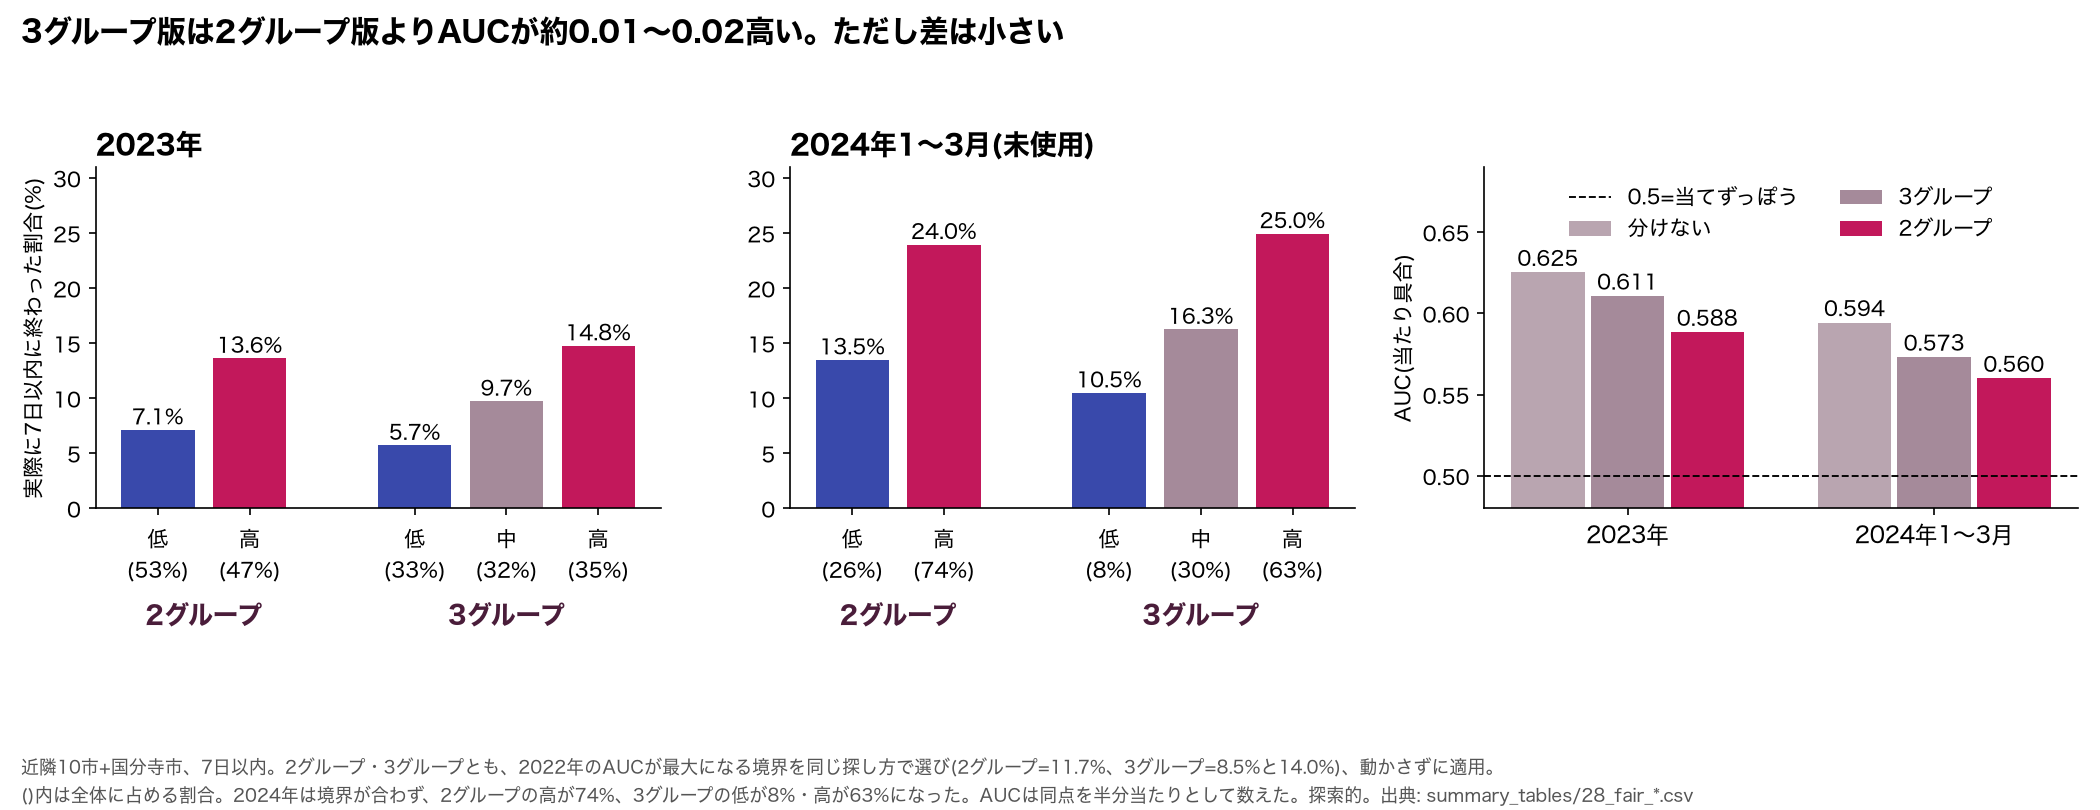
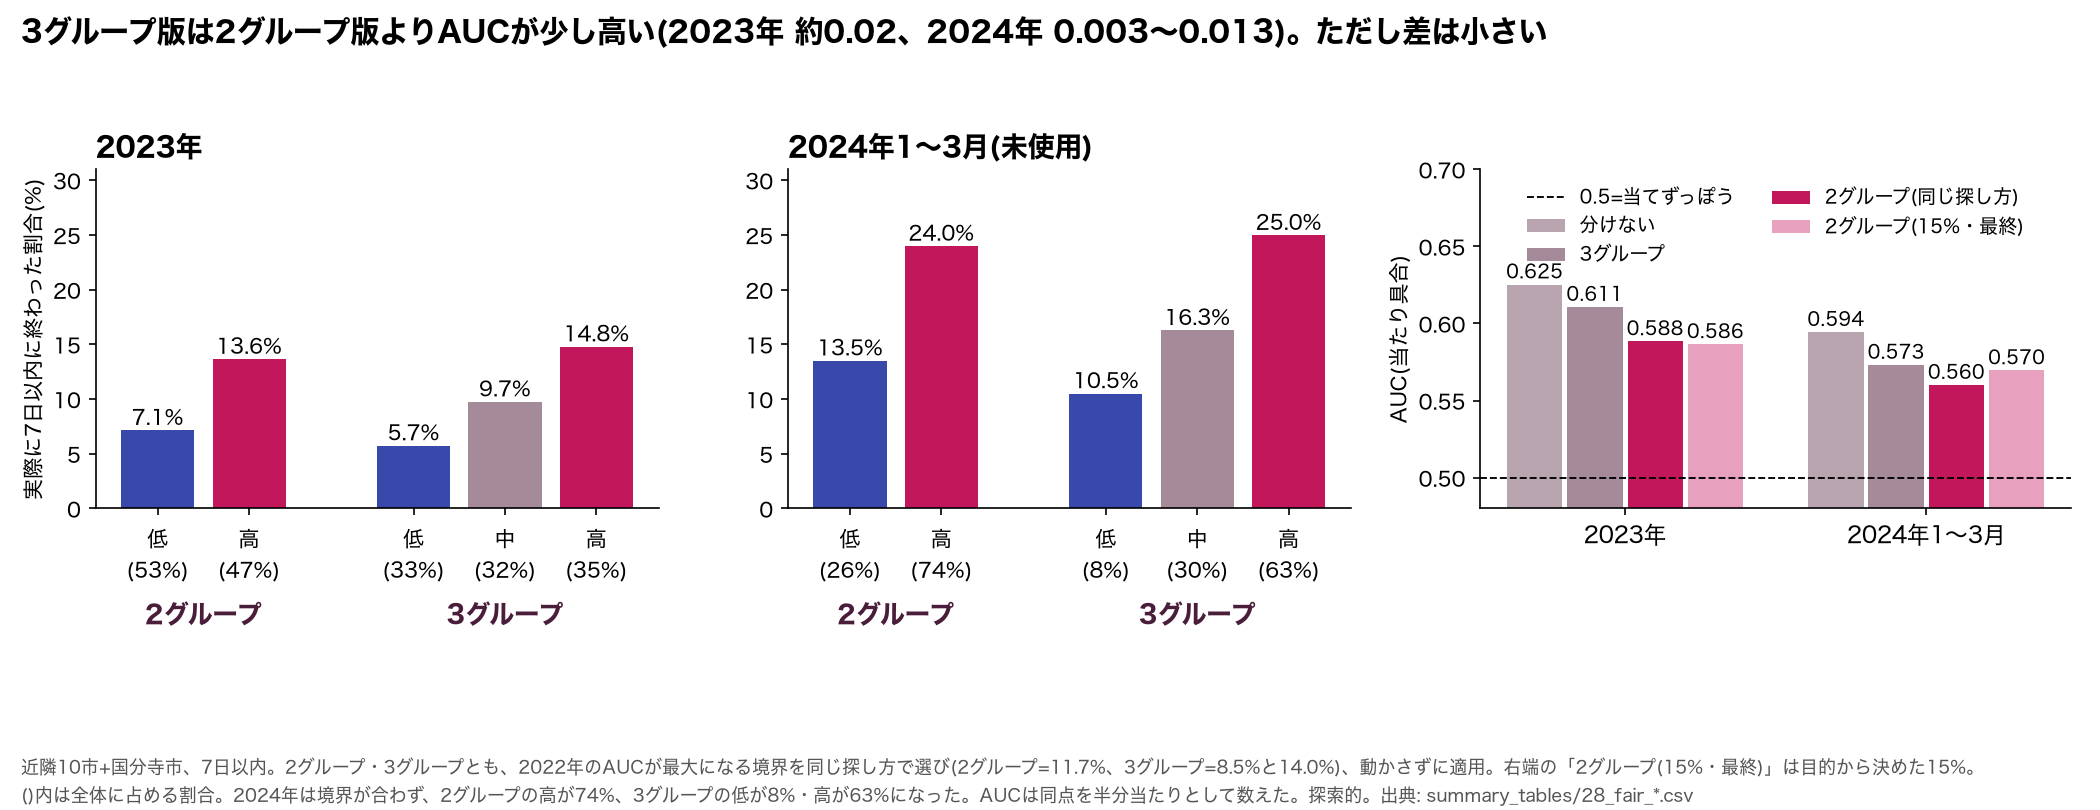
Add presentation figures (29a-f) with large plain-language labels; add 15% two-group bar to figure 28

diff --git a/Ohori/analysis/29_deck_figures.py b/Ohori/analysis/29_deck_figures.py
@@ -1,0 +1,320 @@
+"""発表スライド用の図を、大きな文字・専門用語なしで作り直す。
+入力は git管理されている summary_tables/ の表だけ(再学習しない)。出力は figures/29*.png。
+スライドの幅に1対1で貼る前提(dpi=150)なので、文字は小さくしすぎない。
+  29a 掲載日数(帯ごとの割合 + 終わった割合の推移)
+  29b 予測期間(7日・14日・30日)
+  29c 3グループと2グループ(旧。1枚版)
+  29c1 3グループと2グループ: 実際に終わった割合
+  29c2 3グループと2グループ: 当たり具合(AUC)
+  29d 結果(2023年)
+  29e 偶然か、簡単な目安か
+  29f 2024年1〜3月での確認
+"""
+from pathlib import Path
+
+import matplotlib.pyplot as plt
+import numpy as np
+import pandas as pd
+
+HERE = Path(__file__).resolve().parents[1]
+T, FIG = HERE / "summary_tables", HERE / "figures"
+INK, ACC, BLUE, MID, GRAY, PINK, LACC = "#4A1D3A", "#C2185B", "#3949AB", "#A58A9A", "#B9A5B0", "#FF9EC4", "#E8A0BF"
+plt.rcParams["font.family"] = ["Hiragino Sans", "sans-serif"]
+plt.rcParams["axes.spines.top"] = False
+plt.rcParams["axes.spines.right"] = False
+plt.rcParams["axes.edgecolor"] = "#555555"
+DPI = 150
+
+
+def rd(n: str) -> pd.DataFrame:
+    return pd.read_csv(T / n)
+
+
+def new(w_px: int, h_px: int, ncols: int = 1, ratios=None):
+    fig, ax = plt.subplots(1, ncols, figsize=(w_px / DPI, h_px / DPI), gridspec_kw={"width_ratios": ratios} if ratios else None)
+    return fig, ax
+
+
+def save(fig, name: str) -> None:
+    fig.savefig(FIG / name, dpi=DPI)
+    plt.close(fig)
+
+
+def a_duration() -> None:
+    s = rd("21_duration_summary.csv").set_index("指標")["値"]
+    bands = [("0〜6", "0〜6日"), ("7〜13", "7〜13日"), ("14〜29", "14〜29日"), ("30〜59", "30〜59日"), ("60〜89", "60〜89日"), ("90〜179", "90〜179日"), ("180〜", "180日以上")]
+    vals = [100 * float(s[f"掲載件数の割合 {k}"]) for _, k in bands]
+    fig, ax = new(1664, 520, 2, [1, 1])
+    a = ax[0]
+    for i, v in enumerate(vals):
+        a.bar(i, v, 0.72, color=ACC if i == 0 else INK)
+        a.text(i, v + 0.8, f"{v:.0f}%", ha="center", fontsize=14, fontweight="bold")
+    a.set_xticks(range(len(bands)))
+    a.set_xticklabels([b for b, _ in bands], fontsize=10.5)
+    a.set_xlabel("掲載日数(日)", fontsize=13)
+    a.set_ylim(0, 36)
+    a.tick_params(axis="y", labelsize=12)
+    a.set_ylabel("物件の割合(%)", fontsize=13)
+    a.set_title("掲載日数ごとの物件の割合", loc="left", fontsize=15, fontweight="bold")
+    b = ax[1]
+    pts = {0: 0.0}
+    for k, v in s.items():
+        if "日後までに終了" in k:
+            pts[int(k.split("日後")[0])] = float(v)
+    days = sorted(pts)
+    y = [100 * pts[d] for d in days]
+    b.fill_between(days, y, color=INK, alpha=0.08)
+    b.plot(days, y, color=INK, lw=3)
+    for d, dx, dy, lab in [(7, 6, -9, "7日目 約3割"), (30, 6, -12, "30日目 約6割"), (90, 6, -10, "90日目 約85%")]:
+        b.plot(d, 100 * pts[d], "o", color=ACC, ms=11)
+        b.annotate(lab, (d, 100 * pts[d]), xytext=(d + dx, 100 * pts[d] + dy), fontsize=14, fontweight="bold", color=ACC)
+    b.axhline(50, color=GRAY, ls="--", lw=1)
+    b.text(178, 52, "半分は22日までに終了", ha="right", color="#444444", fontsize=12)
+    b.set_xlim(0, 182)
+    b.set_xticks([0, 30, 60, 90, 120, 150, 180])
+    b.set_ylim(0, 100)
+    b.set_xlabel("掲載を始めてから何日目か", fontsize=13)
+    b.set_ylabel("終わった物件の割合(%)", fontsize=13)
+    b.tick_params(labelsize=12)
+    b.set_title("日がたつほど、終わった割合は増える", loc="left", fontsize=15, fontweight="bold")
+    b.grid(color="#e5e5e5")
+    fig.tight_layout()
+    save(fig, "29a_duration.png")
+
+
+def b_horizon() -> None:
+    h = rd("22_horizon_choice.csv")
+    h = h[h["評価対象"] == "近隣10市+国分寺市"].set_index("予測期間(日)")
+    days = [7, 14, 30]
+    labs = ["7日", "14日", "30日"]
+    cols = [ACC, INK, INK]
+    fig, ax = new(1100, 474, 2)
+    a = ax[0]
+    v = [h.loc[d, "似た候補のAUC"] for d in days]
+    for i, x in enumerate(v):
+        a.bar(i, x, 0.6, color=cols[i])
+        a.text(i, x + 0.003, f"{x:.3f}", ha="center", fontsize=13, fontweight="bold")
+    a.axhline(0.5, color="black", ls="--", lw=1)
+    a.set_ylabel("点線=当てずっぽう(0.5)", fontsize=10)
+    a.set_ylim(0.48, 0.60)
+    a.set_xticks(range(3))
+    a.set_xticklabels(labs, fontsize=13)
+    a.tick_params(axis="y", labelsize=11)
+    a.set_title("当たり具合(AUC): ほぼ同じ", loc="left", fontsize=13, fontweight="bold")
+    b = ax[1]
+    v = [h.loc[d, "高は低の何倍"] for d in days]
+    for i, x in enumerate(v):
+        b.bar(i, x, 0.6, color=cols[i])
+        b.text(i, x + 0.04, f"{x:.2f}倍", ha="center", fontsize=13, fontweight="bold")
+    b.set_ylim(1.0, 2.25)
+    b.set_xticks(range(3))
+    b.set_xticklabels(labs, fontsize=13)
+    b.tick_params(axis="y", labelsize=11)
+    b.set_title("高は低の何倍終わりやすいか", loc="left", fontsize=13, fontweight="bold")
+    fig.tight_layout()
+    save(fig, "29b_horizon.png")
+
+
+def c_levels() -> None:
+    g = rd("28_fair_group_rates.csv")
+    m, m27 = rd("28_fair_auc.csv"), rd("27_three_levels_auc.csv")
+    Y23, Y24 = "2023(固定して適用)", "2024年1〜3月(未使用)"
+    S2, S3 = "V2 2グループ(AUC最大)", "V2 3グループ(AUC最大)"
+    COL = {"低": BLUE, "中": MID, "高": ACC}
+    fig, ax = new(1130, 470, 2, [0.8, 1.2])
+    a = ax[0]
+    x0, ticks, labs = 0, [], []
+    for sch, nm in [(S2, "2グループ"), (S3, "3グループ")]:
+        d = g[(g["対象"] == Y23) & (g["分け方"] == sch)]
+        xs = x0 + np.arange(len(d))
+        for xx, (_, r) in zip(xs, d.iterrows()):
+            a.bar(xx, 100 * r["実際の終了率"], 0.78, color=COL[r["グループ"]])
+            a.text(xx, 100 * r["実際の終了率"] + 0.5, f"{100 * r['実際の終了率']:.0f}%", ha="center", fontsize=13, fontweight="bold")
+            ticks.append(xx)
+            labs.append(r["グループ"])
+        a.text(xs.mean(), -4.6, nm, ha="center", fontsize=13, fontweight="bold", color=INK, clip_on=False)
+        x0 = xs[-1] + 1.6
+    a.set_xticks(ticks)
+    a.set_xticklabels(labs, fontsize=13)
+    a.set_ylim(0, 19)
+    a.tick_params(axis="y", labelsize=11)
+    a.set_title("2023年: 終わった割合(%)", loc="left", fontsize=12, fontweight="bold")
+    b = ax[1]
+    rows = [("確率そのまま", GRAY, "分けない", m), (S3, MID, "3グループ", m), (S2, ACC, "2グループ", m), ("2段階(15%)", LACC, "2グループ(15%・最終)", m27)]
+    w = 0.21
+    for i, y in enumerate([Y23, Y24]):
+        for j, (k, c, nm, tab) in enumerate(rows):
+            v = tab[(tab["対象"] == y) & (tab["分け方"] == k)]["全体のAUC"].iloc[0]
+            b.bar(i + (j - 1.5) * w, v, w * 0.94, color=c, label=nm if i == 0 else None)
+            b.text(i + (j - 1.5) * w, v + 0.004, f"{v:.2f}", ha="center", fontsize=9, fontweight="bold")
+    b.axhline(0.5, color="black", ls="--", lw=1)
+    b.set_ylim(0.5, 0.70)
+    b.set_xticks([0, 1])
+    b.set_xticklabels(["2023年", "2024年1〜3月"], fontsize=12)
+    b.tick_params(axis="y", labelsize=11)
+    b.legend(frameon=False, loc="upper right", fontsize=9.5, ncol=2, columnspacing=0.8, handlelength=1.2)
+    b.set_title("当たり具合(AUC)", loc="left", fontsize=12, fontweight="bold")
+    fig.tight_layout(w_pad=3.0)
+    save(fig, "29c_levels.png")
+
+
+def d_result() -> None:
+    l = rd("19_labels_by_year.csv")
+    l = l[(l["予測期間(日)"] == 7) & l["境界の決め方"].str.startswith("a") & l["年"].str.startswith("2023")].iloc[0]
+    w = rd("19_within_set_2023.csv")
+    w = w[(w["予測期間(日)"] == 7) & w["境界の決め方"].str.startswith("a")].set_index("候補の似かた")
+    fig, ax = new(1180, 508, 2, [1, 1.25])
+    a = ax[0]
+    items = [("低", 100 * l["低の実終了率"], BLUE), ("全体", 100 * l["全体"], GRAY), ("高", 100 * l["高の実終了率"], ACC)]
+    for i, (n, v, c) in enumerate(items):
+        a.bar(i, v, 0.62, color=c)
+        a.text(i, v + 0.4, f"{v:.1f}%", ha="center", fontsize=16, fontweight="bold")
+    a.text(1.0, 21.2, "高は低の約2倍", ha="center", fontsize=17, fontweight="bold", color=ACC)
+    a.set_xticks(range(3))
+    a.set_xticklabels([n for n, _, _ in items], fontsize=15)
+    a.set_ylim(0, 24)
+    a.tick_params(axis="y", labelsize=12)
+    a.set_title("7日以内に終わった割合(%)", loc="left", fontsize=14, fontweight="bold")
+    b = ax[1]
+    rows = [("間取り・築年数・家賃\nまで同じ物件", w.loc["A 間取り×築年数×家賃"]), ("間取りだけ\n同じ物件", w.loc["D 間取りだけ同じ"])]
+    for i, (n, r) in enumerate(rows):
+        v = r["高−低の実終了率の差pt"]
+        b.barh(i, v, 0.5, color=INK)
+        b.plot([r["ci_low"], r["ci_high"]], [i, i], color=PINK, lw=3.5, zorder=3)
+        b.text(r["ci_high"] + 0.35, i, f"+{v:.1f}", va="center", fontsize=17, fontweight="bold")
+    b.set_yticks(range(2))
+    b.set_yticklabels([n for n, _ in rows], fontsize=12)
+    b.set_xlim(0, 10.5)
+    b.tick_params(axis="x", labelsize=12)
+    b.set_xlabel("高と低の差(ポイント)\nピンクの線は誤差の範囲", fontsize=11)
+    b.set_title("似た物件どうしの差は小さい", loc="left", fontsize=14, fontweight="bold")
+    fig.tight_layout()
+    save(fig, "29d_result2023.png")
+
+
+def e_baselines() -> None:
+    t = rd("25_overall_ci_baselines.csv")
+    names = {"モデル(今回)": "今回の方法", "掲載日数だけ": "掲載日数だけ", "家賃帯だけ": "家賃だけ", "間取りだけ": "間取りだけ", "築年数帯だけ": "築年数だけ",
+             "間取り×築年数×家賃": "3つの条件を組み合わせた集計", "でたらめ(並べ替え)": "でたらめに分けた場合"}
+    t = t.iloc[::-1].reset_index(drop=True)
+    fig, ax = new(1060, 501, 1)
+    for i, r in t.iterrows():
+        k = r["目安"]
+        c = ACC if k.startswith("モデル") else (GRAY if k.startswith("でたらめ") else INK)
+        ax.barh(i, r["差pt"], 0.62, color=c)
+        ax.plot([r["差pt_ci_low"], r["差pt_ci_high"]], [i, i], color=PINK, lw=3.5, zorder=3)
+        ax.text(max(r["差pt_ci_high"], r["差pt"]) + 0.25, i, f"{r['差pt']:+.1f}", va="center", fontsize=14, fontweight="bold" if k.startswith("モデル") else "normal")
+    ax.set_yticks(range(len(t)))
+    ax.set_yticklabels([names[k] for k in t["目安"]], fontsize=13)
+    ax.axvline(0, color="black", lw=0.8)
+    ax.set_xlim(-1.5, 10)
+    ax.tick_params(axis="x", labelsize=12)
+    ax.set_xlabel("高と低の差(ポイント。ピンクの線は誤差の範囲)", fontsize=12)
+    fig.tight_layout()
+    save(fig, "29e_baselines.png")
+
+
+def f_holdout() -> None:
+    l = rd("19_labels_by_year.csv")
+    l = l[(l["予測期間(日)"] == 7) & l["境界の決め方"].str.startswith("a") & l["年"].str.startswith("2023")].iloc[0]
+    h = rd("26_holdout_2024q1.csv")
+    h = h[(h["対象"] == "近隣10市+国分寺市") & h["目安"].str.startswith("モデル")].iloc[0]
+    w23 = rd("19_within_set_2023.csv")
+    w23 = w23[(w23["予測期間(日)"] == 7) & w23["境界の決め方"].str.startswith("a")].set_index("候補の似かた")
+    w24 = rd("26_holdout_2024q1_within_set.csv").set_index("候補の似かた")
+    b25 = rd("25_overall_ci_baselines.csv")
+    b25 = b25[b25["目安"].str.startswith("モデル")].iloc[0]
+    fig, ax = new(1060, 459, 2, [1, 1.3])
+    a = ax[0]
+    for i, (lo, hi, nm) in enumerate([(100 * l["低の実終了率"], 100 * l["高の実終了率"], "2023年"), (100 * h["低の実終了率"], 100 * h["高の実終了率"], "2024年1〜3月")]):
+        a.bar(i - 0.19, lo, 0.34, color=BLUE, label="低" if i == 0 else None)
+        a.bar(i + 0.19, hi, 0.34, color=ACC, label="高" if i == 0 else None)
+        a.text(i - 0.19, lo + 0.5, f"{lo:.0f}%", ha="center", fontsize=13, fontweight="bold")
+        a.text(i + 0.19, hi + 0.5, f"{hi:.0f}%", ha="center", fontsize=13, fontweight="bold")
+        a.text(i, max(hi, lo) + 6.2, f"{hi / lo:.2f}倍", ha="center", fontsize=15, fontweight="bold", color=INK)
+    a.set_xticks([0, 1])
+    a.set_xticklabels(["2023年", "2024年1〜3月\n(一度も使っていない)"], fontsize=12)
+    a.set_ylim(0, 46)
+    a.tick_params(axis="y", labelsize=11)
+    a.legend(frameon=False, loc="upper left", ncol=1, fontsize=12)
+    a.set_title("7日以内に終わった割合(%)", loc="left", fontsize=13, fontweight="bold")
+    b = ax[1]
+    rows = [("全体", (b25["差pt"], b25["差pt_ci_low"], b25["差pt_ci_high"]), (h["差pt"], h["差pt_ci_low"], h["差pt_ci_high"])),
+            ("間取りだけ同じ", tuple(w23.loc["D 間取りだけ同じ", ["高−低の実終了率の差pt", "ci_low", "ci_high"]]), tuple(w24.loc["D 間取りだけ同じ", ["高−低の実終了率の差pt", "ci_low", "ci_high"]])),
+            ("いちばん似た物件", tuple(w23.loc["A 間取り×築年数×家賃", ["高−低の実終了率の差pt", "ci_low", "ci_high"]]), tuple(w24.loc["A 間取り×築年数×家賃", ["高−低の実終了率の差pt", "ci_low", "ci_high"]]))]
+    for i, (nm, v23, v24) in enumerate(rows[::-1]):
+        for j, (v, c, yr) in enumerate([(v23, GRAY, "2023年"), (v24, ACC, "2024年1〜3月")]):
+            y = i + (0.19 if j == 0 else -0.19)
+            b.barh(y, v[0], 0.32, color=c, label=yr if i == 0 else None)
+            b.plot([v[1], v[2]], [y, y], color=PINK if j else INK, lw=3, zorder=3)
+            b.text(max(v[2], v[0]) + 0.3, y, f"{v[0]:+.1f}", va="center", fontsize=12, fontweight="bold" if j else "normal")
+    b.axvline(0, color="black", lw=0.8)
+    b.set_yticks(range(3))
+    b.set_yticklabels([r[0] for r in rows[::-1]], fontsize=12)
+    b.set_xlim(-5, 15)
+    b.tick_params(axis="x", labelsize=11)
+    b.set_xlabel("高と低の差(ポイント)", fontsize=11)
+    b.text(0.0, 1.0, "灰=2023年　赤=2024年1〜3月", transform=b.transAxes, fontsize=11, color="#444444", va="bottom")
+    b.set_title("最も似た物件は差が0(2024年)", loc="left", fontsize=12, fontweight="bold", pad=20)
+    b.set_ylim(-0.75, 2.7)
+    fig.tight_layout(w_pad=2.5)
+    save(fig, "29f_holdout.png")
+
+
+def c1_levels_rates() -> None:
+    """3グループと2グループで、実際に終わった割合(2023年と2024年1〜3月)。"""
+    g = rd("28_fair_group_rates.csv")
+    Y = [("2023(固定して適用)", "2023年"), ("2024年1〜3月(未使用)", "2024年1〜3月(一度も使っていない)")]
+    S2, S3 = "V2 2グループ(AUC最大)", "V2 3グループ(AUC最大)"
+    COL = {"低": BLUE, "中": MID, "高": ACC}
+    fig, ax = new(1130, 470, 2, [1, 1])
+    for a, (yk, yt) in zip(ax, Y):
+        x0, ticks, labs = 0, [], []
+        for sch, nm in [(S2, "2グループ"), (S3, "3グループ")]:
+            d = g[(g["対象"] == yk) & (g["分け方"] == sch)]
+            xs = x0 + np.arange(len(d))
+            for xx, (_, r) in zip(xs, d.iterrows()):
+                a.bar(xx, 100 * r["実際の終了率"], 0.78, color=COL[r["グループ"]])
+                a.text(xx, 100 * r["実際の終了率"] + 0.6, f"{100 * r['実際の終了率']:.0f}%", ha="center", fontsize=15, fontweight="bold")
+                ticks.append(xx)
+                labs.append(r["グループ"])
+            a.text(xs.mean(), -8.2, nm, ha="center", fontsize=14, fontweight="bold", color=INK, clip_on=False)
+            x0 = xs[-1] + 1.6
+        a.set_xticks(ticks)
+        a.set_xticklabels(labs, fontsize=14)
+        a.set_ylim(0, 30)
+        a.tick_params(axis="y", labelsize=12)
+        a.set_title(yt, loc="left", fontsize=13, fontweight="bold")
+    ax[0].set_ylabel("7日以内に終わった割合(%)", fontsize=13)
+    fig.tight_layout(w_pad=3.0)
+    save(fig, "29c1_levels_rates.png")
+
+
+def c2_levels_auc() -> None:
+    """当たり具合(AUC)の比較。"""
+    m, m27 = rd("28_fair_auc.csv"), rd("27_three_levels_auc.csv")
+    Y23, Y24 = "2023(固定して適用)", "2024年1〜3月(未使用)"
+    S2, S3 = "V2 2グループ(AUC最大)", "V2 3グループ(AUC最大)"
+    fig, b = plt.subplots(1, 1, figsize=(820 / DPI, 470 / DPI))
+    rows = [("確率そのまま", GRAY, "分けない", m), (S3, MID, "3グループ", m), (S2, ACC, "2グループ(同じ探し方)", m), ("2段階(15%)", LACC, "2グループ(15%・最終)", m27)]
+    w = 0.2
+    for i, y in enumerate([Y23, Y24]):
+        for j, (k, c, nm, tab) in enumerate(rows):
+            v = tab[(tab["対象"] == y) & (tab["分け方"] == k)]["全体のAUC"].iloc[0]
+            b.bar(i + (j - 1.5) * w, v, w * 0.92, color=c, label=nm if i == 0 else None)
+            b.text(i + (j - 1.5) * w, v + 0.004, f"{v:.2f}", ha="center", fontsize=12, fontweight="bold")
+    b.axhline(0.5, color="black", ls="--", lw=1)
+    b.set_ylim(0.5, 0.72)
+    b.set_xticks([0, 1])
+    b.set_xticklabels(["2023年", "2024年1〜3月"], fontsize=14)
+    b.tick_params(axis="y", labelsize=12)
+    b.set_ylabel("当たり具合(AUC)", fontsize=13)
+    b.legend(frameon=False, loc="upper right", fontsize=11, ncol=2, columnspacing=0.8, handlelength=1.2)
+    fig.tight_layout()
+    save(fig, "29c2_levels_auc.png")
+
+
+if __name__ == "__main__":
+    for f in (a_duration, b_horizon, c_levels, c1_levels_rates, c2_levels_auc, d_result, e_baselines, f_holdout):
+        f()
+    print("ok")

diff --git a/Ohori/analysis/28b_fair_figure.py b/Ohori/analysis/28b_fair_figure.py
@@ -13,6 +13,7 @@ plt.rcParams["axes.spines.top"] = False
 plt.rcParams["axes.spines.right"] = False
 
 g = pd.read_csv(ST / "28_fair_group_rates.csv")
+m27 = pd.read_csv(ST / "27_three_levels_auc.csv")
 m = pd.read_csv(ST / "28_fair_auc.csv")
 YEARS = ["2023(固定して適用)", "2024年1〜3月(未使用)"]
 TITLE = {YEARS[0]: "2023年", YEARS[1]: "2024年1〜3月(未使用)"}
@@ -38,20 +39,20 @@ for a, y in zip(ax[:2], YEARS):
     a.set_title(TITLE[y], loc="left", fontsize=13, fontweight="bold")
     a.set_ylabel("実際に7日以内に終わった割合(%)" if y == YEARS[0] else "")
 b = ax[2]
-rows = [("確率そのまま", GRAY, "分けない"), (S3, MID, "3グループ"), (S2, ACC, "2グループ")]
-w = 0.26
+rows = [("確率そのまま", GRAY, "分けない", m), (S3, MID, "3グループ", m), (S2, ACC, "2グループ(同じ探し方)", m), ("2段階(15%)", "#E8A0BF", "2グループ(15%・最終)", m27)]
+w = 0.2
 for i, y in enumerate(YEARS):
-    for j, (k, c, nm) in enumerate(rows):
-        v = m[(m["対象"] == y) & (m["分け方"] == k)]["全体のAUC"].iloc[0]
-        b.bar(i + (j - 1) * w, v, w * 0.92, color=c, label=nm if i == 0 else None)
-        b.text(i + (j - 1) * w, v + 0.004, f"{v:.3f}", ha="center", fontsize=10)
+    for j, (k, c, nm, tab) in enumerate(rows):
+        v = tab[(tab["対象"] == y) & (tab["分け方"] == k)]["全体のAUC"].iloc[0]
+        b.bar(i + (j - 1.5) * w, v, w * 0.92, color=c, label=nm if i == 0 else None)
+        b.text(i + (j - 1.5) * w, v + 0.004, f"{v:.3f}", ha="center", fontsize=9)
 b.axhline(0.5, color="black", ls="--", lw=0.9, label="0.5=当てずっぽう")
-b.set_ylim(0.48, 0.69)
+b.set_ylim(0.48, 0.70)
 b.set_xticks([0, 1])
 b.set_xticklabels(["2023年", "2024年1〜3月"], fontsize=11)
 b.set_ylabel("AUC(当たり具合)")
-b.legend(frameon=False, loc="upper center", ncol=2, fontsize=10)
-fig.suptitle("3グループ版は2グループ版よりAUCが約0.01〜0.02高い。ただし差は小さい", x=0.01, ha="left", fontsize=14, fontweight="bold")
-fig.text(0.01, 0.01, "近隣10市+国分寺市、7日以内。2グループ・3グループとも、2022年のAUCが最大になる境界を同じ探し方で選び(2グループ=11.7%、3グループ=8.5%と14.0%)、動かさずに適用。\n()内は全体に占める割合。2024年は境界が合わず、2グループの高が74%、3グループの低が8%・高が63%になった。AUCは同点を半分当たりとして数えた。探索的。出典: summary_tables/28_fair_*.csv", fontsize=8.5, color="#555555")
+b.legend(frameon=False, loc="upper center", ncol=2, fontsize=9)
+fig.suptitle("3グループ版は2グループ版よりAUCが少し高い(2023年 約0.02、2024年 0.003〜0.013)。ただし差は小さい", x=0.01, ha="left", fontsize=14, fontweight="bold")
+fig.text(0.01, 0.01, "近隣10市+国分寺市、7日以内。2グループ・3グループとも、2022年のAUCが最大になる境界を同じ探し方で選び(2グループ=11.7%、3グループ=8.5%と14.0%)、動かさずに適用。右端の「2グループ(15%・最終)」は目的から決めた15%。\n()内は全体に占める割合。2024年は境界が合わず、2グループの高が74%、3グループの低が8%・高が63%になった。AUCは同点を半分当たりとして数えた。探索的。出典: summary_tables/28_fair_*.csv", fontsize=8.5, color="#555555")
 fig.tight_layout(rect=(0, 0.08, 1, 0.93))
 fig.savefig(HERE / "figures" / "28_fair_three_vs_two.png", dpi=150)
